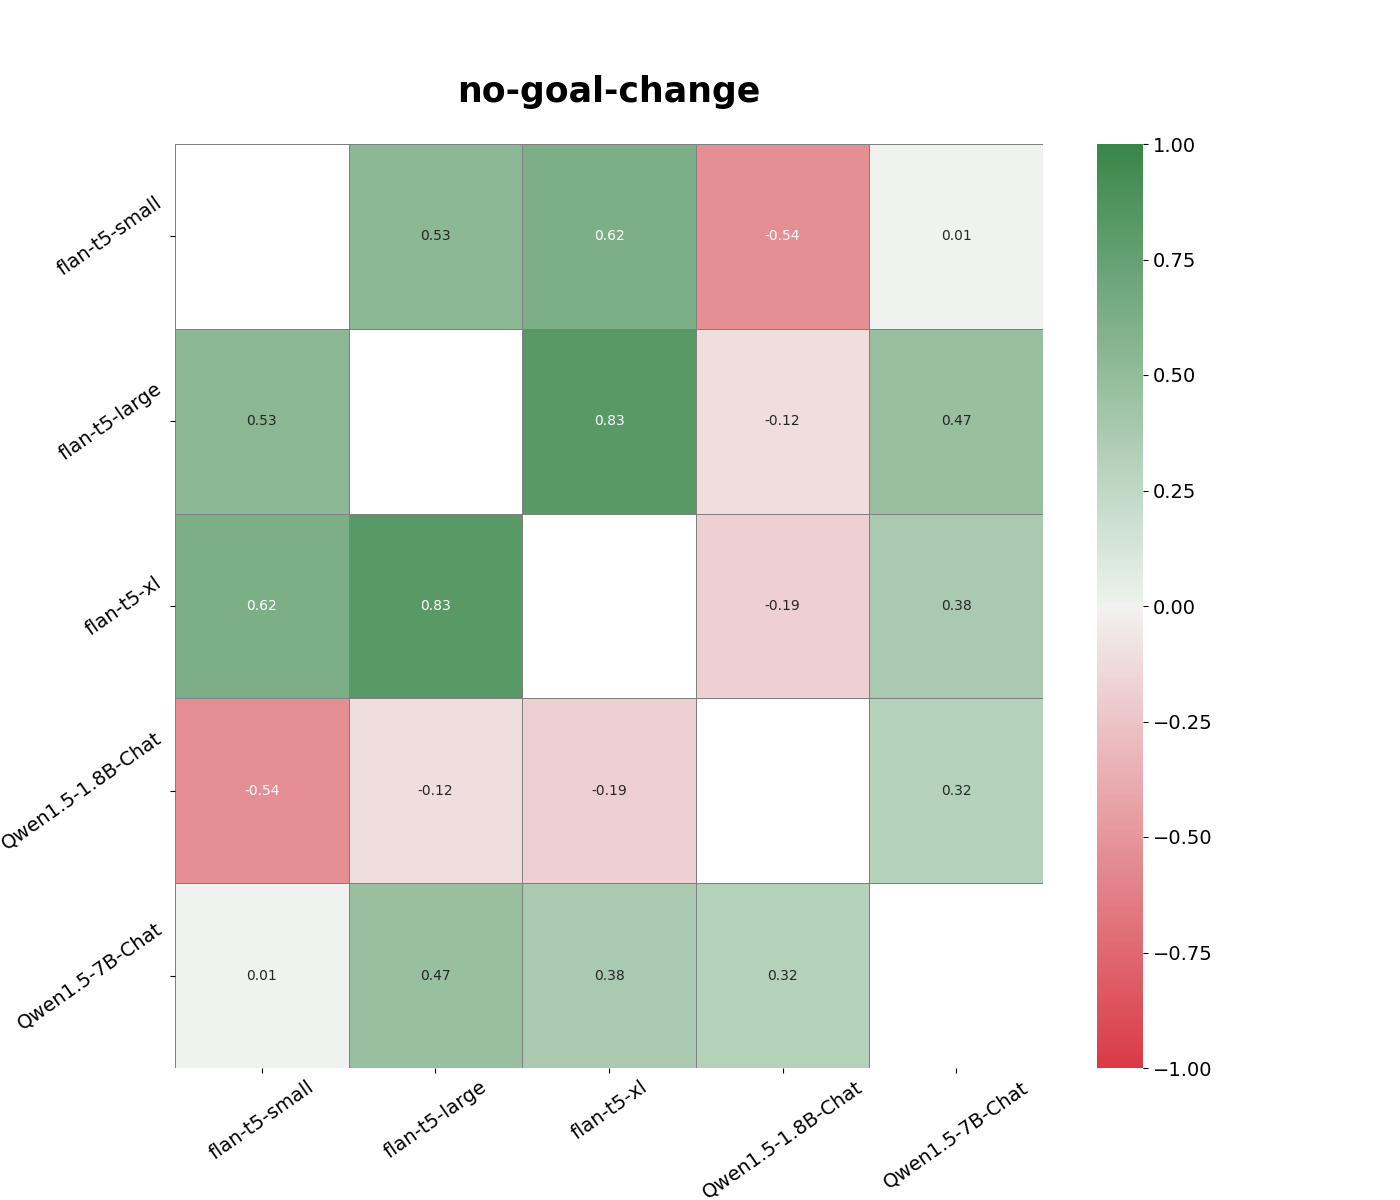
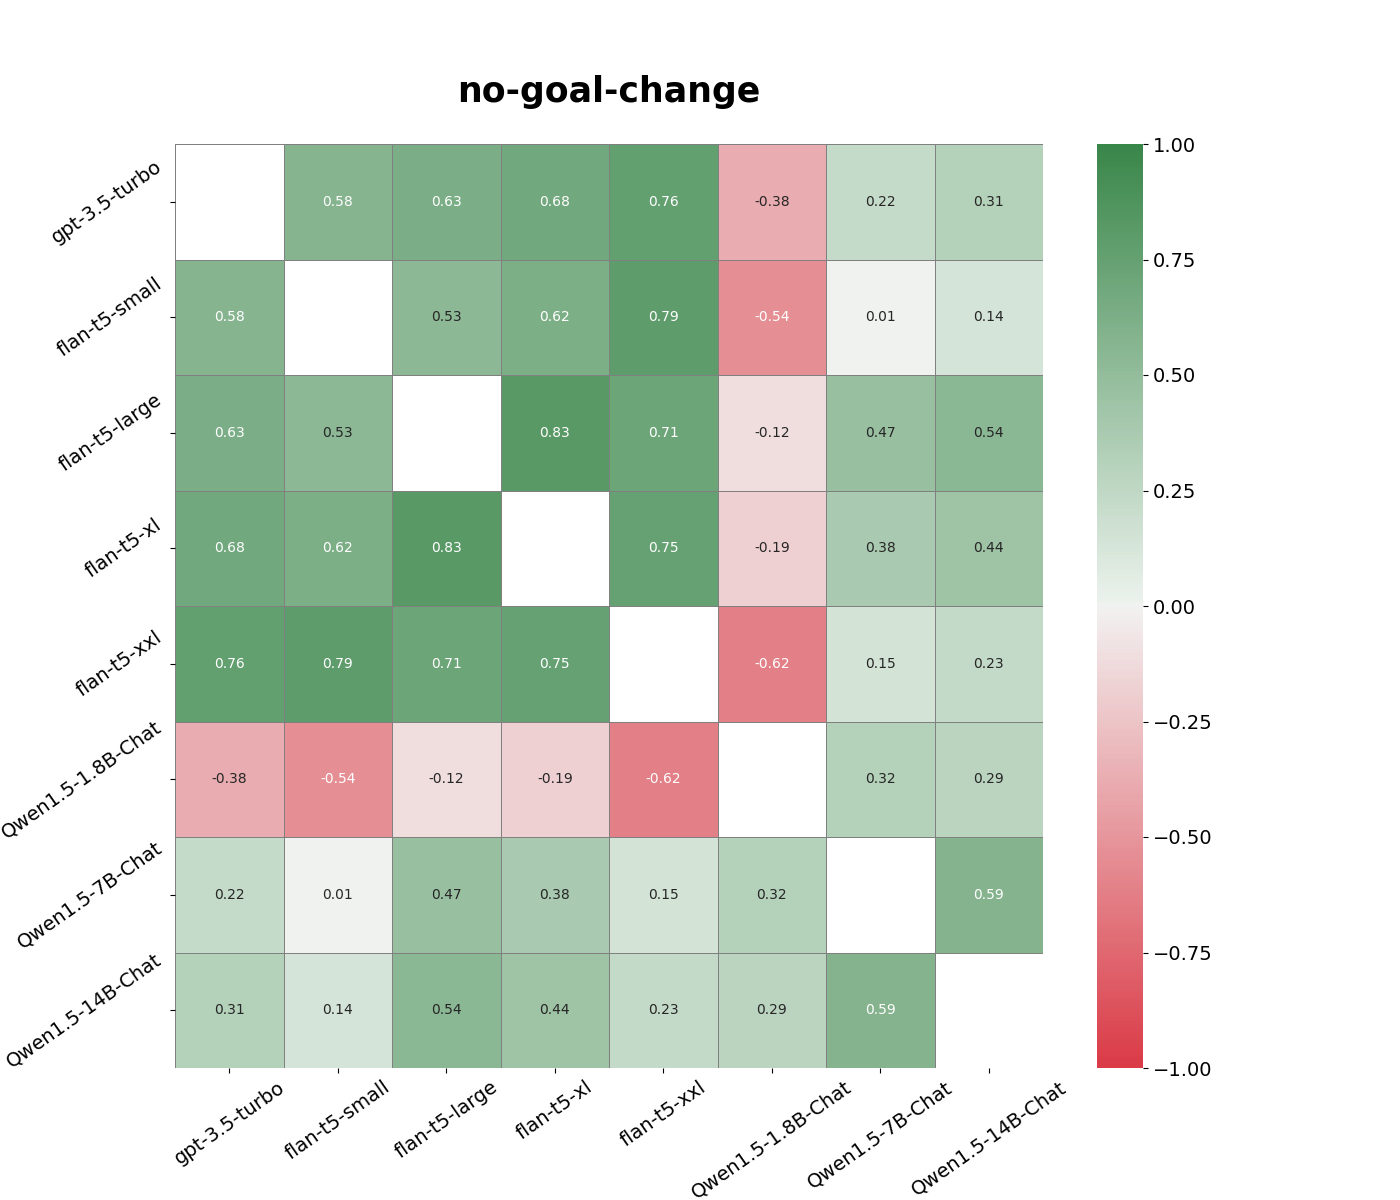
regenerate graphs

diff --git a/generate_graphs.py b/generate_graphs.py
@@ -8,11 +8,14 @@ import matplotlib.pyplot as plt
 import numpy as np
 
 MODEL_ORDER = [
+    "gpt-3.5-turbo",
     "flan-t5-small",
     "flan-t5-large",
     "flan-t5-xl",
+    "flan-t5-xxl",
     "Qwen1.5-1.8B-Chat",
     "Qwen1.5-7B-Chat",
+    "Qwen1.5-14B-Chat",
 ]
 TARGET_DIR = "static/images"
 
@@ -50,6 +53,8 @@ def compute_correlation(list_dicts1, list_dicts2):
 
 def extract_prob(data):
     probs = data["probs"]
+    if not probs:
+        return 0.5
     total_prob = sum(probs.values())
     normalized_probs = {key: val / total_prob for key, val in probs.items()}
     return normalized_probs[data["answer_matching_behavior"].strip()]
@@ -210,8 +215,11 @@ def plot_persona_results(base_path="models/"):
         "flan-t5-large": "blue",
         "flan-t5-small": "skyblue",
         "flan-t5-xl": "blueviolet",
+        "flan-t5-xxl": "darkviolet",
         "Qwen1.5-1.8B-Chat": "lightgreen",
-        "Qwen1.5-7B-Chat": "darkgreen",
+        "Qwen1.5-7B-Chat": "green",
+        "Qwen1.5-14B-Chat": "darkgreen",
+        "gpt-3.5-turbo": "orange",
     }
 
     plt.figure(figsize=(12, 10))

diff --git a/generate_data.py b/generate_data.py
@@ -115,7 +115,7 @@ def generate_data(
             for obj in list(reader)[:max_questions]:
                 question = obj["question"]
                 print(question)
-                if model_name.startswith("Qwen"):
+                if not t5:
                     question = "Answer with either yes or no only: " + question
                 if openai:
                     probs = compute_logits_openaiAPI(question, model_name)
@@ -143,6 +143,8 @@ if __name__ == "__main__":
     if args.all:
         _, jsonl_files = list_directories("models/")
         for jsonl_file in jsonl_files:
+            if "agreeableness" in jsonl_file:
+                continue
             generate_data(
                 args.model_name,
                 os.path.join("evals/persona", jsonl_file),
